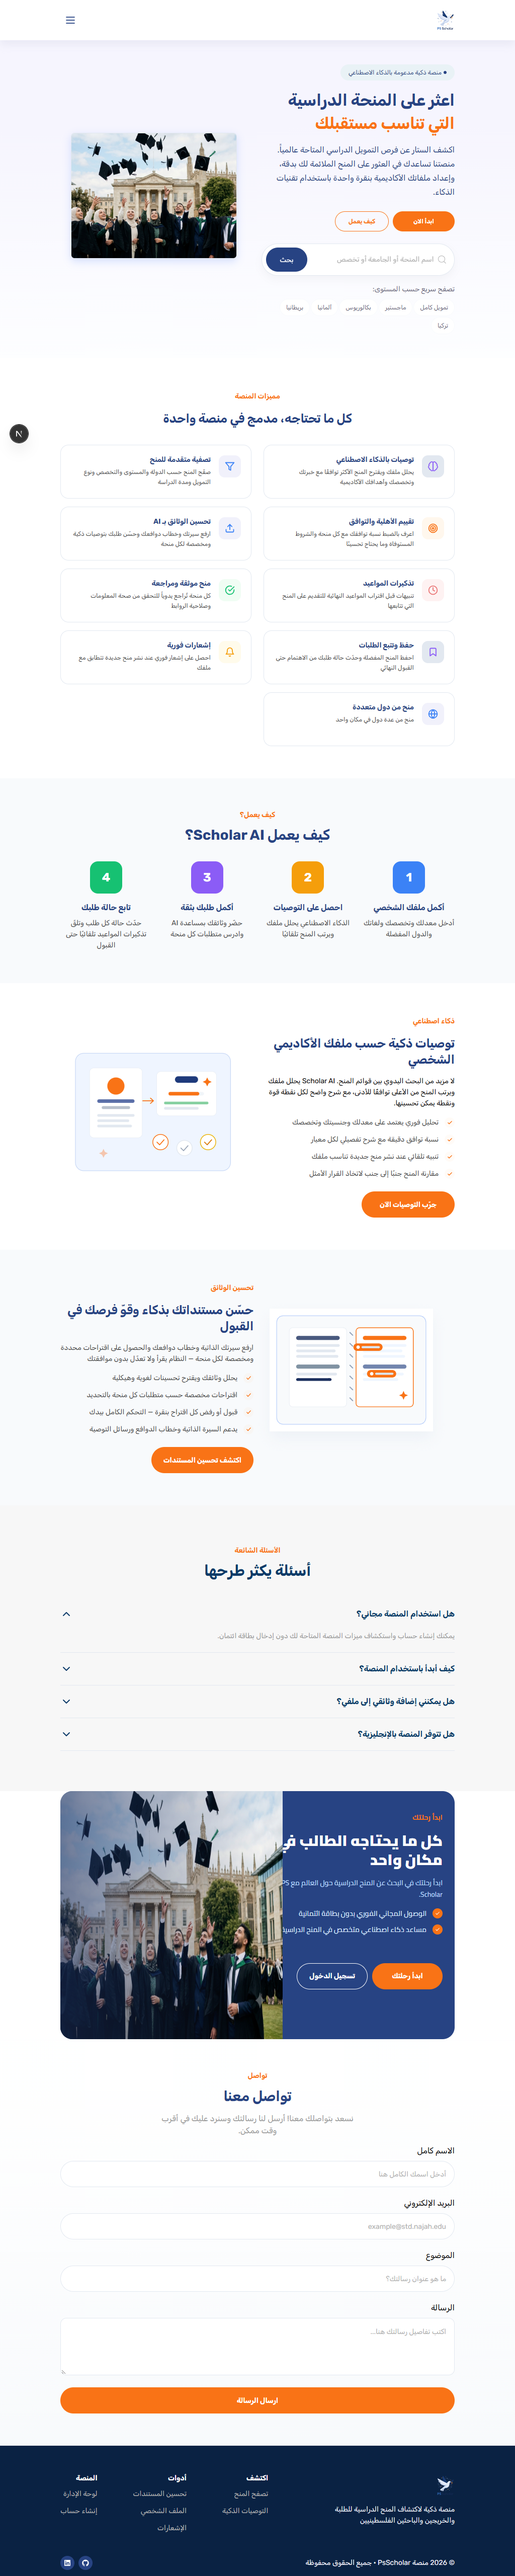
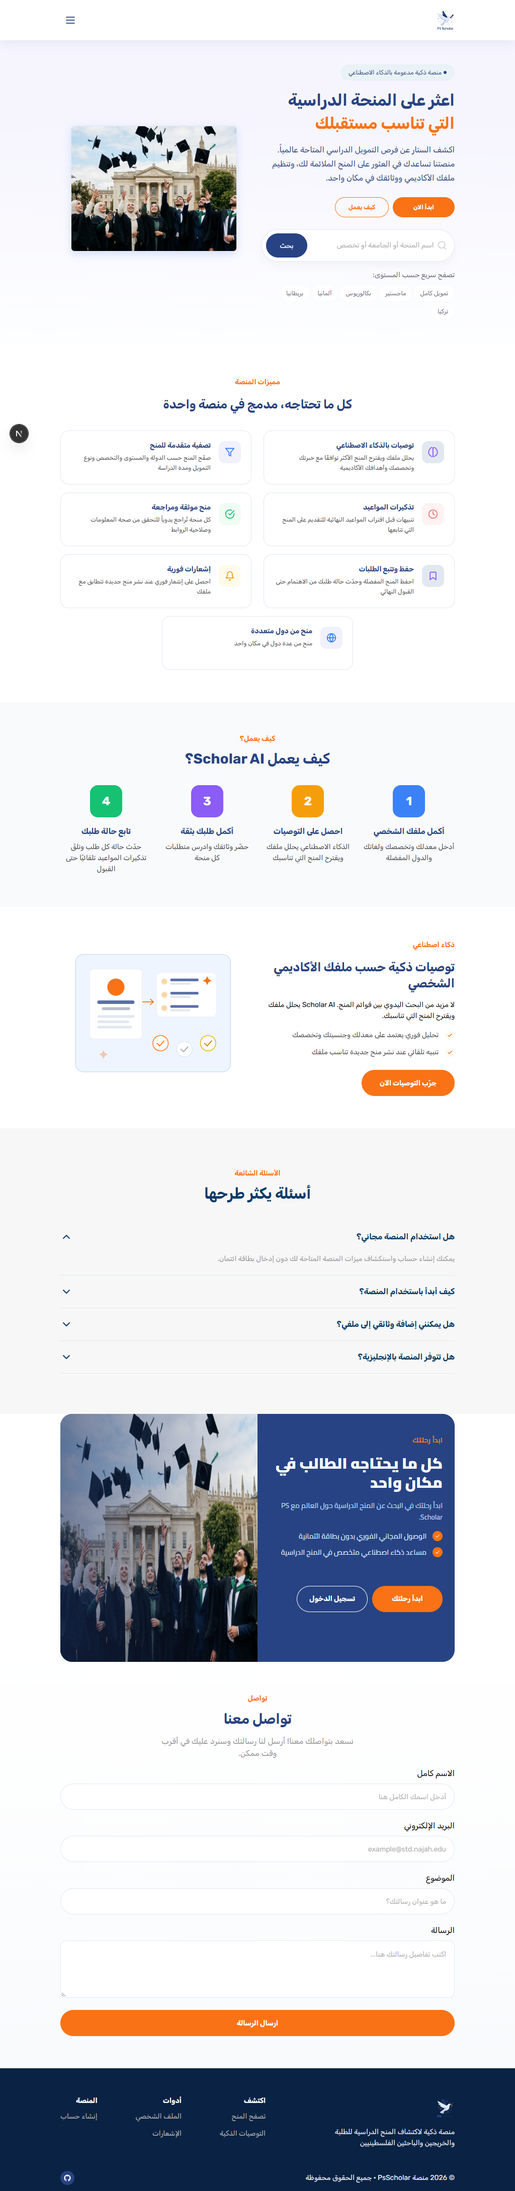
docs(landing): refresh FE-22 screenshots after the claims and layout fixes

diff --git a/docs/fe-22-landing/README.md b/docs/fe-22-landing/README.md
@@ -1,9 +1,16 @@
 # FE-22 landing cleanup: verification screenshots
 
-Full-page captures of `/en` and `/ar` at 390, 1024 and 1440 px after removing fake content
-(hero stat cards, acceptance card, featured scholarships, "Why PsScholar?" overview, 12,000
-bullet, 92% illustration). Captured from `next dev` with headless Edge via Playwright.
+Full-page captures of `/en` and `/ar` at 390, 1024 and 1440 px, taken from `next dev` with
+headless Edge via Playwright after the final commit of the branch.
 
-Checked per capture: no horizontal scroll, no known fake strings in the visible text, every
-in-page anchor resolves to a section. The locale wrapper sets `dir` (the root `<html>` is
-hardcoded `rtl`; that predates this change).
+What the landing no longer shows: the hero stat and acceptance cards, featured scholarships,
+the "Why PsScholar?" overview, the "12,000 scholarships" bullet, match scores, AI document
+improvement, side-by-side compare, the admin dashboard link and the generic LinkedIn/GitHub links.
+
+Measured per capture (all passed): no horizontal scroll; no known fake or unbacked strings in
+the visible text; the features grid's last row is centered; no CTA copy overlaps the photo and no
+CTA text is clipped. Interactions checked in both locales: nav and footer anchors scroll to their
+section, hero "How it works", hero search and quick filters route to
+`/student/scholarships?search=...`, the CTA links, the language switch and the mobile menu.
+
+The locale wrapper sets `dir`; the root `<html dir="rtl">` is hardcoded and was left untouched.
